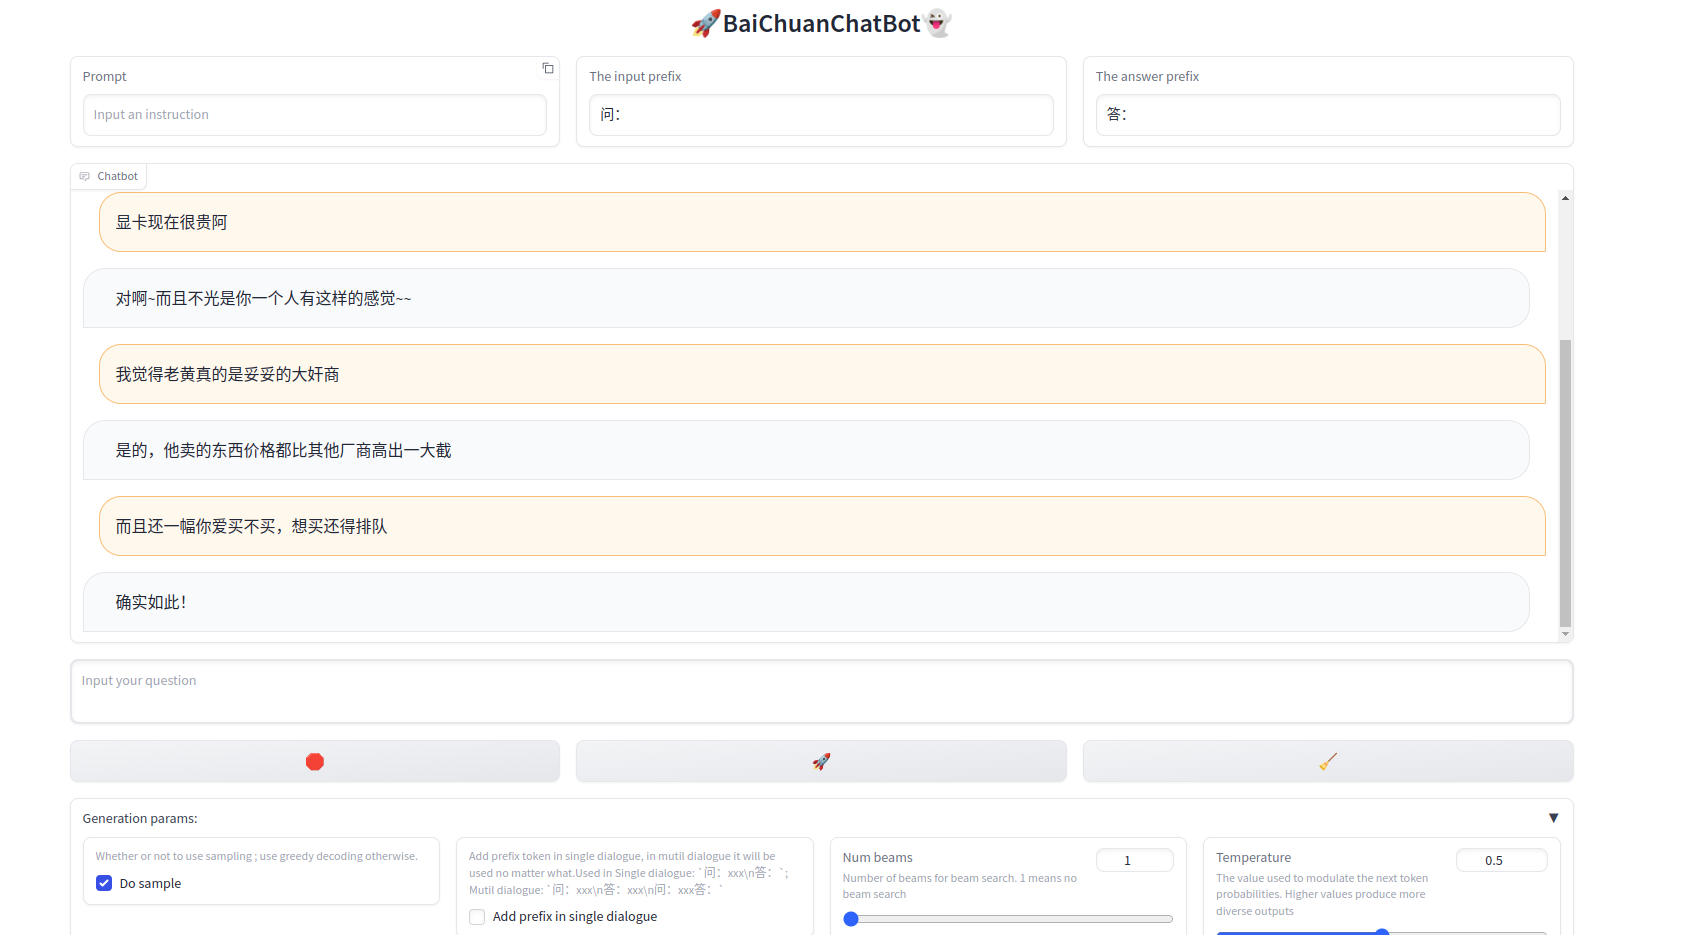
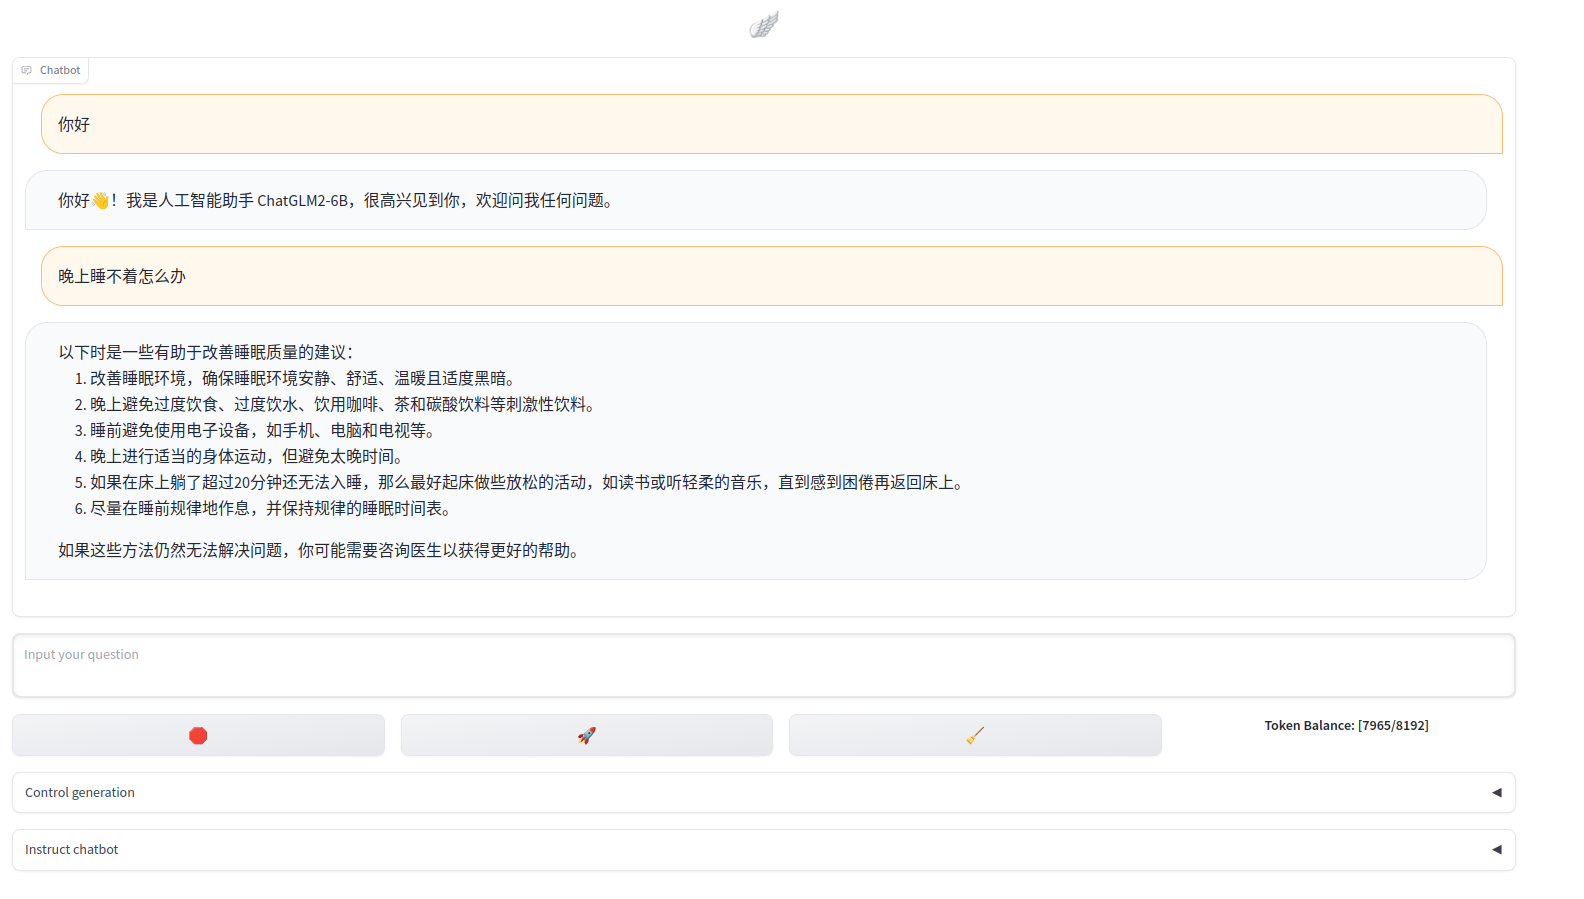
doc(/*README.md): update proj readme.md,  chatglm2 readme.md

diff --git a/src/models/chatglm2/README.md b/src/models/chatglm2/README.md
@@ -1,0 +1,313 @@
+对`modeling_chatglm.py`的一些精简优化:
+
+1. 在注入位置信息(旋转位置编码)的过程中, 将`RotaryEmbedding` `forward`中每次计算cos, sin项提取为类属性通过`register_buffer`注册进内存中, 复用cos,sin后不用在每次模型forward过程中计算cos, sin.
+
+2. Attention mask 的实现在训练时貌似不预期. 假设训练时不使用`PTuning`. `pre_seq_len`为None/0, 
+
+   样本
+
+   ```python
+       text = [
+           '你好啊',
+           '今天天气不错呢！'
+       ]
+       encode = tokenizer(text, return_tensors='pt', padding=True, add_special_tokens=False)
+       print(encode['attention_mask'])
+       
+       """
+   tensor([[0, 0, 1, 1, 1],
+           [1, 1, 1, 1, 1]])    
+       """
+   ```
+
+   `ChatGLMModel.forward`中处理`attention_mask`逻辑.  第一个if 不执行,第二个if 执行进入`get_masks`
+
+   ```python
+           if self.pre_seq_len is not None:
+               if past_key_values is None:
+                   past_key_values = self.get_prompt(batch_size=batch_size, device=input_ids.device,
+                                                     dtype=inputs_embeds.dtype)
+               if attention_mask is not None:
+                   attention_mask = torch.cat([attention_mask.new_ones((batch_size, self.pre_seq_len)),
+                                               attention_mask], dim=-1)
+   
+           if full_attention_mask is None:
+               if (attention_mask is not None and not attention_mask.all()) or (past_key_values and seq_length != 1):
+                   full_attention_mask = self.get_masks(input_ids, past_key_values, padding_mask=attention_mask)
+                   
+   ```
+
+   调用`get_masks`后的结果
+
+   ```python
+       text = [
+           '你好啊',
+           '今天天气不错呢！'
+       ]
+       encode = tokenizer(text, return_tensors='pt', padding=True, add_special_tokens=False)
+       print(encode)
+       print('=' * 128)
+       res = get_masks(encode['input_ids'], past_key_values=None, padding_mask=encode['attention_mask'])
+       print(res)
+       
+   """    
+   {'input_ids': tensor([[    0,     0, 36474, 54591, 55674],
+           [53456, 33071, 32884, 55282, 31404]]), 'attention_mask': tensor([[0, 0, 1, 1, 1],
+           [1, 1, 1, 1, 1]]), 'position_ids': tensor([[0, 0, 0, 1, 2],
+           [0, 1, 2, 3, 4]])}
+   ================================================================================================================================        
+   tensor([[[[False, False, False, False, False],
+             [False, False, False, False, False],
+             [ True,  True, False,  True,  True],
+             [ True,  True, False, False,  True],
+             [ True,  True, False, False, False]]],
+   
+   
+           [[[False,  True,  True,  True,  True],
+             [False, False,  True,  True,  True],
+             [False, False, False,  True,  True],
+             [False, False, False, False,  True],
+             [False, False, False, False, False]]]])
+   """
+   ```
+
+   MHA的逻辑`CoreAttention.forward`, 下面执行else语句再反转attn
+
+   ```python
+       def forward(self, query_layer, key_layer, value_layer, attention_mask):
+           pytorch_major_version = int(torch.__version__.split('.')[0])
+           if pytorch_major_version >= 2:
+               query_layer, key_layer, value_layer = [k.permute(1, 2, 0, 3) for k in [query_layer, key_layer, value_layer]]
+               if attention_mask is None and query_layer.shape[2] == key_layer.shape[2]:
+                   context_layer = torch.nn.functional.scaled_dot_product_attention(query_layer, key_layer, value_layer,
+                                                                                    is_causal=True)
+               else:
+                   if attention_mask is not None:
+                       attention_mask = ~attention_mask
+                   context_layer = torch.nn.functional.scaled_dot_product_attention(query_layer, key_layer, value_layer,
+                                                                                    attention_mask)
+               context_layer = context_layer.permute(2, 0, 1, 3)
+               new_context_layer_shape = context_layer.size()[:-2] + (self.hidden_size_per_partition,)
+               context_layer = context_layer.reshape(*new_context_layer_shape)
+   
+    # 进入 torch.nn.functional.scaled_dot_product_attention的attn张这样
+   """
+   tensor([[[[ True,  True,  True,  True,  True],
+             [ True,  True,  True,  True,  True],
+             [False, False,  True, False, False],
+             [False, False,  True,  True, False],
+             [False, False,  True,  True,  True]]],
+   
+   
+           [[[ True, False, False, False, False],
+             [ True,  True, False, False, False],
+             [ True,  True,  True, False, False],
+             [ True,  True,  True,  True, False],
+             [ True,  True,  True,  True,  True]]]])
+   """
+   ```
+
+   可以看到第一个mask矩阵不符合预期. 预期应该张这样子.
+
+   ```python
+   """
+   
+   tensor([[[[False, False, False, False, False],
+             [False, False, False, False, False],
+             [False, False,  True, False, False],
+             [False, False,  True,  True, False],
+             [False, False,  True,  True,  True]]],
+   
+   
+           [[[ True, False, False, False, False],
+             [ True,  True, False, False, False],
+             [ True,  True,  True, False, False],
+             [ True,  True,  True,  True, False],
+             [ True,  True,  True,  True,  True]]]])
+   """
+   ```
+
+   重新实现了一下, `ChatGLMModel.forward`
+
+   ```python
+           # 3.  Invert attention_mask, add padding mask and expand it: [batch_size, 1, seq_len, src_len]
+           if self.pre_seq_len and past_key_values is not None:
+               # In the inference, use cache, use `p-tuning v2`, the `past_key_values` contain `prefix-prompt-embedding`
+               past_len = past_key_values[0][0].shape[0] - self.pre_seq_len
+           elif past_key_values is not None:
+               # In the inference, use cache, not use `p-tuning v2`
+               past_len = past_key_values[0][0].shape[0]
+           else:
+               # training or Inference(not use cache, or first forward)
+               past_len = 0
+           full_attention_mask: torch.BoolTensor = self.prepare_masks(
+               input_shape=(inputs_embeds.size(1), inputs_embeds.size(0)),  # [batch_size, seq_len]
+               device=inputs_embeds.device,
+               past_len=past_len,
+               padding_mask=attention_mask,
+               prefix_encoder_prompt_len=self.pre_seq_len if self.pre_seq_len else 0,
+           )
+   ```
+
+   ```python
+       @staticmethod
+       def prepare_masks(
+               input_shape: Union[torch.Size, Tuple],
+               device: Union[torch.device, str],
+               past_len: int = 0,
+               padding_mask: Optional[torch.Tensor] = None,
+               prefix_encoder_prompt_len: int = 0,
+       ) -> torch.BoolTensor:
+           """Prepare `attn_mask` for <torch.nn.functional.scaled_dot_product_attention>
+   
+                   # Efficient implementation equivalent to the following:
+                   attn_mask = torch.ones(L, S, dtype=torch.bool).tril(diagonal=0) if is_causal else attn_mask
+                   attn_mask = attn_mask.masked_fill(not attn_mask, -float('inf')) if attn_mask.dtype==torch.bool else attn_mask
+                   attn_weight = torch.softmax((Q @ K.transpose(-2, -1) / math.sqrt(Q.size(-1))) + attn_mask, dim=-1)
+                   attn_weight = torch.dropout(attn_weight, dropout_p)
+                   return attn_weight @ V
+   
+           Args:
+               input_shape:
+               device:
+               past_len:
+               padding_mask: The strategy of padding must be 'left'
+               prefix_encoder_prompt_len:
+   
+           Examples:
+   
+               For train:
+                       input:
+                           input_shape: (2, 5)
+                           past_len: 0
+                           padding_mask:
+                               [
+                                   [0, 0, 1, 1, 1],
+                                   [1, 1, 1, 1, 1]
+                               ]
+   
+                       Output:
+                           [[[[False, False, False, False, False],
+                             [False, False, False, False, False],
+                             [False, False,  True, False, False],
+                             [False, False,  True,  True, False],
+                             [False, False,  True,  True,  True]]],
+   
+   
+                           [[[ True, False, False, False, False],
+                             [ True,  True, False, False, False],
+                             [ True,  True,  True, False, False],
+                             [ True,  True,  True,  True, False],
+                             [ True,  True,  True,  True,  True]]]]
+   
+               For batch inference:
+                       input:
+                           input_shape: (2, 5)
+                           past_len: 2
+                           padding_mask:
+                               # past_padding_mask   new_padding_mask
+                               [[1, 1,               0, 0, 1, 1, 1],
+                               [0, 1,                1, 1, 1, 1, 1]]
+   
+                       Output:
+                           [[[[ True,  True, False, False, False, False, False],
+                             [ True,  True, False, False, False, False, False],
+                             [ True,  True, False, False,  True, False, False],
+                             [ True,  True, False, False,  True,  True, False],
+                             [ True,  True, False, False,  True,  True,  True]]],
+   
+                           [[[False,  True,  True, False, False, False, False],
+                             [False,  True,  True,  True, False, False, False],
+                             [False,  True,  True,  True,  True, False, False],
+                             [False,  True,  True,  True,  True,  True, False],
+                             [False,  True,  True,  True,  True,  True,  True]]]]
+           Returns:
+   
+           """
+           batch_size, tgt_len = input_shape
+           total_len = prefix_encoder_prompt_len + past_len + tgt_len
+   
+           # The input_ids's causal mask
+           causal_mask = torch.ones(batch_size, tgt_len, tgt_len, device=device).tril_()
+           if past_len + prefix_encoder_prompt_len:
+               causal_mask = torch.cat(
+                   [
+                       torch.ones(batch_size, tgt_len, past_len + prefix_encoder_prompt_len, device=device),
+                       causal_mask
+                   ],
+                   dim=-1
+               )
+   
+           # past padding mask + current padding mask    or    current padding mask
+           if padding_mask is not None:
+               if padding_mask.size(0) != batch_size:
+                   raise ValueError('Attention mask should have the same size as the batch size.')
+   
+               if prefix_encoder_prompt_len:
+                   padding_mask = torch.cat(
+                       [
+                           torch.ones(batch_size, tgt_len, prefix_encoder_prompt_len, device=device),
+                           padding_mask
+                       ],
+                       dim=-1
+                   )
+   
+               if padding_mask.size(1) != total_len:
+                   raise ValueError(
+                       f"Attention mask should be of size {(batch_size, total_len)}, "
+                       f"but is {padding_mask.size()}"
+                   )
+   
+               causal_mask = causal_mask * padding_mask.unsqueeze(1)
+   
+           # [batch_size, seq_len, src_len] => [batch_size, 1, seq_len, src_len]
+           return (causal_mask > 0.5).bool()[:, None, ...]
+   ```
+
+   `CoreAttention.forward`
+
+   ```python
+       def forward(self, query_layer, key_layer, value_layer, attention_mask: torch.BoolTensor) -> torch.Tensor:
+           """
+   
+           Args:
+               query_layer: [tgt_len, batch_size, num_heads, head_head_size]
+               key_layer: [src_len, batch_size, num_heads, head_head_size]
+               value_layer: [src_len, batch_size, num_heads, head_head_size]
+               attention_mask: [batch_size, 1, seq_len, src_len]
+   
+           Returns: [tgt_len, batch_size, hidden_size]
+   
+           """
+           # [seq_len, batch_size, num_heads, head_hidden_size] => [batch_size, num_heads, seq_len, head_hidden_size]
+           query_layer, key_layer, value_layer = [k.permute(1, 2, 0, 3) for k in [query_layer, key_layer, value_layer]]
+   
+           # [batch_size, num_heads, tgt_len, head_hidden_size]
+           context_layer = torch.nn.functional.scaled_dot_product_attention(
+               query_layer,
+               key_layer,
+               value_layer,
+               attention_mask
+           )
+   ```
+
+3. torch版本强制2.0及以上, 使用[torch.nn.functional.scaled_dot_product_attention`](https://pytorch.org/docs/stable/generated/torch.nn.functional.scaled_dot_product_attention.html)加速attention计算
+
+4. 根据`config.json`和`configuration_chatglm.py`去掉在前向传播中的if else 判断, 精简代码. 如dropout为0, MQA, rmsnorm, PTuning2微调的的Encoder等.
+
+5. `stream_generate`中的生成参数提取到`stream_chat`, 在打字机模式使用cache时候复用这部分参数.
+
+6. 其他一些小细节优化.
+
+7. 代码多了些许注释.
+
+8. web服务流程优化, 减少正则化等，界面丰富了一下.
+
+   
+整体来看，在decoder-only的视角下，chatglm2-6b的结构和llama除了attention不一样外，其他均一样。
+chatglm2-6b用的是Multi-Query Attention，其中k,v是2组, 在进行attention 计算时将k,v的2组扩展到所有头共享，2 -> 32，即16个头的参数是一样的。
+llama-7b用的是标准的Mutil-Head Attention, k,v,q的32个头参数是不共享的。
+
+[原图出处](https://zhuanlan.zhihu.com/p/636784644)
+
+![LLaMA结构](../../../images/llama.jpg)

diff --git a/README.md b/README.md
@@ -1,48 +1,35 @@
 [toc]
 
-# BaiChuanChatBot
+# Angel
 
 ## 介绍
 
-基于[baichuan-7B模型](https://github.com/baichuan-inc/baichuan-7B)的一个简易聊天机器人。提供了int4、int8量化。模型暂未作微调。
+基于开源模型的一些列领域微调(进行中...)
 
 ## 依赖
 
-不量化的情况默认采用bf16/fp16，若显卡支持bf16会优先采用，否则采用fp16。
+见`requirements.txt`
 
-1. 默认使用`transformers`的量化接口。参数`quantization_type`值为`hf`。需要安装`bitsandbytes`和`accelerate`, **int4量化transformers需要最新dev分支,
-   测试版本`4.31.0.dev0`**。
-    - int4下需要5G显存，进行2-3次对话后会到6G左右。
-    - int8下需要8G显存，进行2-3次对话后会到9G左右。
-    - bf16下需要14G显存，进行1-2次对话后会到15G左右。
-   
-2. 参考[ChatGLM-6b](https://huggingface.co/THUDM/chatglm-6b/tree/main)中`quantization.py`的量化代码，提供了`gptq`
-   量化方式，参数`quantization_type`值为`gpt`。需要安装`cpm_kernels`, 受限于运行内存，**gptq量化未测试**。
+## webui
 
-3. 可根据不同的量化方式，在`requirements.txt`中选择需要的依赖包。
-
-## 使用方式
-
-1. 修改`scripts/webui.sh`中`model_dir`等参数(默认从[[Hugging Face](https://huggingface.co/baichuan-inc/baichuan-7B)
-   处下载模型权重)。不使用量化的情况下，`webui.sh`中的`bits`参数去掉即可。在`baichuan_chat`目录下启动`scripts/webui.sh`脚本。
+1. 修改`scripts/webui.sh`中`model_dir`等参数, 在`ChatWithAngel`目录下启动`scripts/webui.sh`脚本。
 
    ```
+   model 模型，Optioanl[`baichuan`, `chatglm2`]
    model_dir	模型存放目录/Hugging Face模型仓库名
-   quantization_type	量化接口, `hf`或`gpt`
-   bits	量化级别, 4或8或None(fp16/bf16)
+   bits	量化级别, 4或8
    public_share	gradio启动时公网共享
    inbrowser	gradio启动在默认浏览器自动启动界面
    port	gradio端口
    chat_mode	聊天界面回复展示, `chat`为正常模式，`stream_chat`为流式(打字机效果)
-   stream_time_out	`stream_chat`下超时参数
    ```
-   
+
 2. 浏览器中界面效果如下:
    ![](images/ui_view.png)
 
-3. 点击底部的`Generation params`横条可修改生成参数。默认打字机效果展示，`Num beams`参数必须为1。`Generation params`反复点击折叠/展开生成参数。
+3. 点击底部的`Control generation`横条可修改生成参数。默认打字机效果展示，反复点击折叠/展开生成参数。
 
-4. 顶部自定义了提示、多轮对话指令。多轮对话情况下， `The input prefix`为对每次输入添加的前缀，`The answer prefix`
+4. 底部`Instruct chatbot`自定义了提示、多轮对话指令。多轮对话情况下， `The input prefix`为对每次输入添加的前缀，`The answer prefix`
    为对模型每次回复添加的前缀。默认情况下示例。
 
    ```
